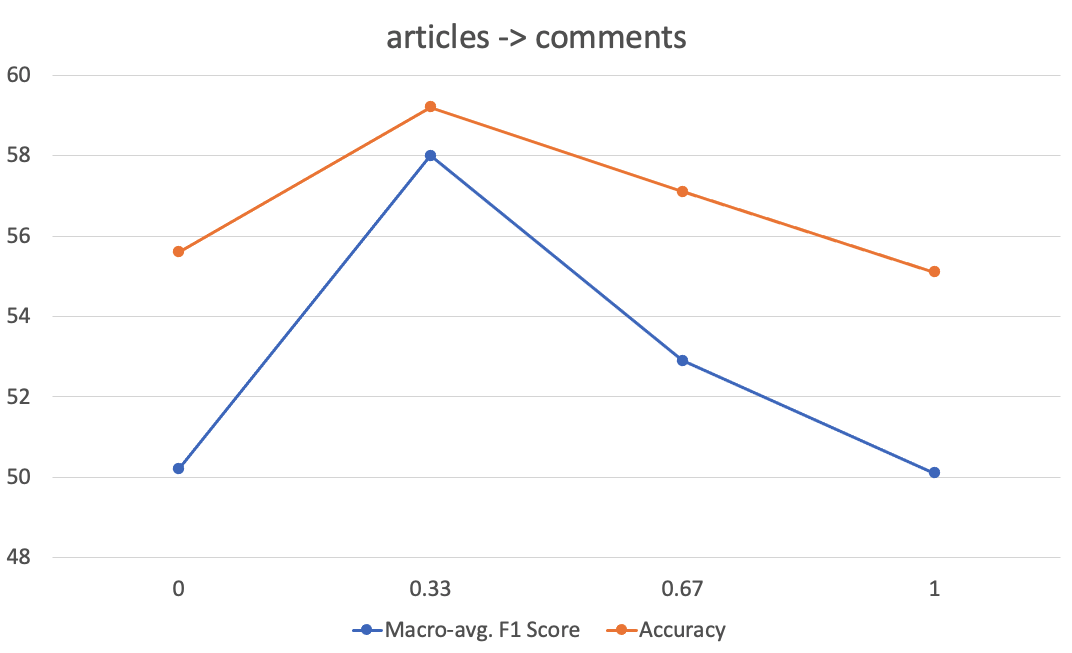
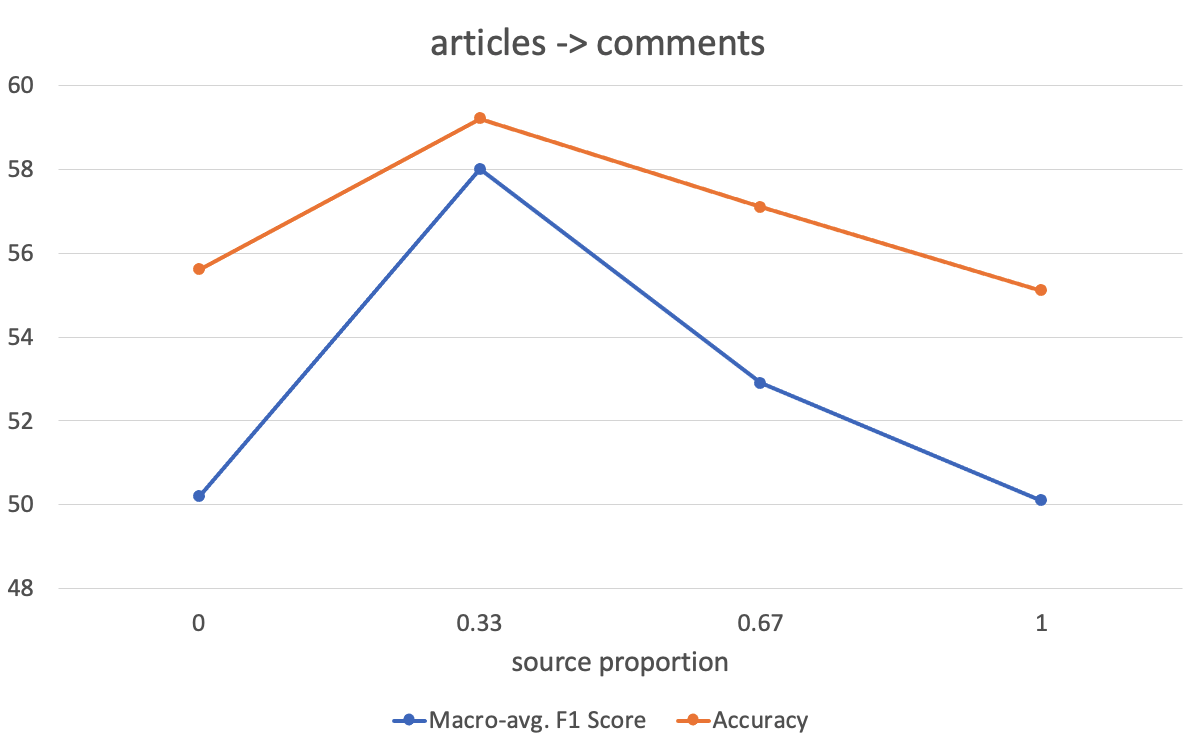
Updates from Overleaf

diff --git a/7-conclusion.tex b/7-conclusion.tex
@@ -12,45 +12,24 @@ Significant work still needs to be done in the field of unsupervised domain adap
 
 \section{Ethical Issues}
 
-The output of our models are not sensitive data. They only predict a political class (e.g. left, center or right) for particular news articles or comments. 
+With regards to data protection, our project does not involve collecting any personal data from Reddit users - all information is collected via the public Reddit API, and we immediately discard comment author information from our datasets before running our models, since we don't make use of this information in any way. An earlier project idea involved analysing the distribution of left-wing and right-wing users across various subreddits - this would involve inferring political affiliations on a per-user basis, which counts as processing `special-category' data under the UK Data Protection Act (DPA) 2018 \cite{dpa}. In this case we would need to take extra precautions when storing and processing this sensitive information.
 
-Our project doesn't involve collecting any personal data from Reddit users - all information is collected through the public Reddit API. We don't make use of author information from comments in any way. The API doesn't expose any sensitive data anyway, only username and account age are exposed.
+One issue is that a third party could take our bias detectors and apply them on comments all from one social media user to determine that user's political leaning, which would of course be inferring sensitive data. This kind of privacy attack could be performed with any bias-detection machine learning model. If our model were deployed in a production environment, we could limit this kind of attack by placing our model behind a query-based interface and limiting the number of queries that can be placed.
 
+In using Reddit comments as a predictor for political bias in the wider news context, our model may unknowingly be biased towards writing styles used by the demographics in our dataset. Reddit is known to have a mainly young, American, white and male userbase \cite{pew-reddit-demographics}, and so a bias detection classifier trained on Reddit text such as ours may start to mispredict if it comes across news or comments with writing styles different to those used by this demographic online. 
 
-
-There are a number of ethical issues involved in our research.
-
-Someone could take our bias detectors and use them on comments all from one person to determine that person's political leaning.
-
-In using Reddit comments as a predictor for political bias in the wider news context, our model may unknowingly be biased towards writing styles used by the demographics in our dataset. Reddit is known to have a mainly young, American, white and male userbase, and so a bias detection classifier trained on Reddit text such as ours may start to mispredict if it comes across news or comments with writing styles different to those used by this demographic online. 
-
-This risk increases with large language models such as BERT, which are pre-trained on huge amounts of data. 
-
-Reddit demographics
-
-
-https://www.journalism.org/2016/02/25/reddit-news-users-more-likely-to-be-male-young-and-digital-in-their-news-preferences/
-
-work has focused on examining data that feeds into large language models such as BERT
-
-
-wanted to find bias per user, but data protection stuff
-
-taking biases learnt from comments and transferring them to news source detection - unneeded influence
-
-
-For all information we collect we must abide by the Data Protection Act (DPA) 2018 \cite{dpa}, which sets out UK GDPR rules. In this project we do not manually collect any private data relating to Reddit users - all data we use is exposed publicly by the Reddit API. However for all comments we collect, the author's Reddit username is also collected as part of the API response. This legally counts as storing sensitive personal information under the DPA, however we mitigate this issue by discarding Reddit usernames from our dataset as soon as possible, since it is not relevant to our research. We don't infer any political bias on a per-user basis, however if we did we would have to be careful not to publish this association anywhere (for obvious reasons).
-
-For others to use our model in production systems we would need to verify our models are unbiased. Machine learning models are often black-box models - verifying what behaviour occurs inside ML models is an open research topic, and so we can never say for sure that our models are completely unbiased. We could however compare against manually-annotated data to see where bias in our models might lie.
-
-
-biased data -> biased model
-
-gebru, reddit
-https://dl.acm.org/doi/abs/10.1145/3351095.3372829
-
+This risk is increased when using large language models such as BERT, which are pre-trained on huge amounts of data - very little is understood about the exact mechanisms BERT uses during training to ensure classification success \cite{bert-dark-secrets}. Jo \& Gebru \cite{gebru} carried out a case study on GPT-2, a large language model similar to BERT, and its pre-training corpus of Reddit data. They noted Reddit's demographics are not representative of demographics in the wider world, and due consideration of this had not been taken by the GPT-2 creators before publishing their model. We have attempted to publish significant information about our Reddit dataset in Chapter \ref{chap:reddit-data}, including which subreddits we sourced information from and how much data from each subreddit, to make our training data collection methodology more transparent.
 
 \section{Future Work}
+
+In this section we propose several ideas for future work that could take this research further.
+
+\begin{itemize}
+    \item \textbf{Collecting more training data} - Our cross-domain Reddit dataset is fairly small, with 806 news articles and 11,954 Reddit comments. Our research would be made much more reliable with a larger collection of news articles in our dataset, plus a wider range of politically-themed subreddits to source comments from. Many of the posts we scraped from Reddit were actually links to screenshots of news articles and tweets rather than actual articles, which we discarded - keeping these screenshots and extracting text from them would also give us access to much more Reddit training data.
+    \item \textbf{Testing more modern classifiers} - We chose BERT models for our experiments in Chapters \ref{chap:domain-adaptation} and \ref{chap:extending-adaptabert} since BERT performs feature extraction automatically, and still provides good classification performance for detecting political bias as seen in Chapter \ref{chap:ensemble-bert}. Further language models, such as XLNet \cite{xlnet}, claim to improve upon BERT's performance significantly, and so assessing their performance on this political bias detection task may yield superior results.
+    \item \textbf{Assessing non-political subreddits} - In this project we only considered politically-themed subreddits to train our classifier. Kane \& Luo \cite{kane} explored whether non-political subreddits still exhibit some unconscious political leaning, using topic modelling with Latent Dirichlet Allocation. Using our classifiers trained on political subreddit data, we could examine the same task but with a transfer learning approach, to see if our results differ from Kane \& Luo's.
+    \item \textbf{Browser extension for assessing echo chambers} - An online echo chamber is an environment where a person only encounters information that reflects and reinforces their own opinions \cite{echo-chambers}. Social media users nowadays are more aware of how echo chambers can affect their point of view. By developing a browser extension that can analyse the text on screen for political bias, social media users can examine how the content they see on social media is politically oriented, to see if they are victim to an echo chamber.
+\end{itemize}
 
 Exploring bias in tabloids vs broadsheets
 
@@ -59,6 +38,12 @@ Further work on Reddit:
     \item Compare Reddit political scale to various countries' political scales (e.g. does it most align with the US scale?)
     \item Look at bias across time
 \end{itemize}
+
+Extract word embeddings from BERT and use in SVM or other classifier, we just use BERTForSequenceClassification
+
+Try other classifiers that aren't BERT (Dark Secrets of BERT) - maybe XLNet?
+
+Multi-modal approach taking images from Reddit or Twitter - lots (how many?) of scraped links were actually to photos
 
 Explore effect of NSP addition to AdaptaBERT for other problems (question answering, natural language inference)
 

diff --git a/8-bibliography.tex b/8-bibliography.tex
@@ -23,7 +23,7 @@ Ad Fontes Media. \textit{Methodology Overview}. Available from: \url{https://www
 W. Wang. \textit{Calculating Political Bias and Fighting Partisanship with AI}. Available from: \url{https://www.thebipartisanpress.com/politics/calculating-political-bias-and-fighting-partisanship-with-ai/} [Accessed 17/02/2021]
 
 \bibitem{baly-emnlp18}
-R. Baly, G. Karadzhov, D. Alexandrov, J. Glass, P. Nakov. Predicting Factuality of Reporting and Bias of News Media Sources. \textit{Proceedings of the Conference on Empirical Methods in Natural Language Processing}, 2018. Available from: \url{https://arxiv.org/pdf/1810.01765v1.pdf} [Accessed 14/01/2021]
+R. Baly, G. Karadzhov, D. Alexandrov, J. Glass, P. Nakov. Predicting Factuality of Reporting and Bias of News Media Sources. \textit{Proceedings of the Conference on Empirical Methods in Natural Language Processing}, 2018. Available from: \url{https://www.aclweb.org/anthology/D18-1389/} [Accessed 14/01/2021]
 
 \bibitem{yougov}
 M. Smith. \textit{Left-wing vs right-wing: it’s complicated}. Available from: 
@@ -74,7 +74,7 @@ Y. Liu, M. Ott, N. Goyal, J. Du, M. Joshi, D. Chen, O. Levy, M. Lewis, L. Zettle
 
 \bibitem{baly-acl2020}
 R. Baly, G. Karadzhov, J. An, H. Kwak, Y. Dinkov, A. Ali, J. Glass, P. Nakov. What Was Written vs. Who Read It:
-News Media Profiling Using Text Analysis and Social Media Context. \textit{Association for Computational Linguistics}, 2020. Available from: \url{https://arxiv.org/pdf/2005.04518v1.pdf} [Accessed 19/01/2021]
+News Media Profiling Using Text Analysis and Social Media Context. \textit{Association for Computational Linguistics}, 2020. Available from: \url{https://www.aclweb.org/anthology/2020.acl-main.308/} [Accessed 19/01/2021]
 
 \bibitem{sattelberg}
 W. Sattelberg. \textit{The Demographics Of Reddit: Who Uses The Site?}. Available from: \url{https://social.techjunkie.com/demographics-reddit/} [Accessed 21/01/2021]
@@ -202,10 +202,22 @@ D. D. Lewis, Y. Yang, T. Rose, F. Li. \textit{RCV1: A New Benchmark Collection f
 \bibitem{wnut}
 B. Strauss, B. Toma, A. Ritter, M.C. De Marneffe, W. Xu. Results of the WNUT16 Named Entity Recognition Shared Task. \textit{Proceedings of the 2nd Workshop on Noisy User-generated Text (WNUT)}, December 2016. pp. 138-144. Available from: \url{https://www.aclweb.org/anthology/W16-3919.pdf} [Accessed 04/06/2021]
 
+\bibitem{dpa}
+Data Protection Act 2018 (UK). Available from: \url{https://www.legislation.gov.uk/ukpga/2018/12/contents/enacted} [Accessed 21/01/2021]
+
 \bibitem{pew-reddit-demographics}
 Pew Research Center. \textit{Reddit news users more likely to be male, young and digital in their news preferences}. Available from: \url{https://www.journalism.org/2016/02/25/reddit-news-users-more-likely-to-be-male-young-and-digital-in-their-news-preferences/} [Accessed 10/06/2021]
 
-\bibitem{dpa}
-Data Protection Act 2018 (UK). Available from: \url{https://www.legislation.gov.uk/ukpga/2018/12/contents/enacted} [Accessed 21/01/2021]
+\bibitem{bert-dark-secrets}
+O. Kovaleva, A. Romanov, A. Rogers, A. Rumshisky. Revealing the Dark Secrets of BERT. \textit{Proceedings of the 2019 Conference on Empirical Methods in Natural Language Processing and the 9th International Joint Conference on Natural Language Processing (EMNLP-IJCNLP)}, November 2019. pp. 4365-4374. Available from: \url{https://www.aclweb.org/anthology/D19-1445} [Accessed 14/06/2021]
+
+\bibitem{gebru}
+E.S. Jo, T. Gebru. Lessons from Archives: Strategies for Collecting Sociocultural Data in Machine Learning. \textit{Proceedings of the 2020 Conference on Fairness, Accountability, and Transparency}, 27th January 2020. pp. 306-316. Available from: \url{https://dl.acm.org/doi/abs/10.1145/3351095.3372829} [Accessed 14/06/2021]
+
+\bibitem{xlnet}
+Z. Yang, Z. Dai, Y. Yang, J. Carbonell, R. Salakhutdinov, Q.V. Le. XLNET: Generalized Autoregressive Pretraining for Language Understanding. \textit{Advances in Neural Information Processing Systems}, 2019. Vol. 32. Available from: \url{https://papers.nips.cc/paper/2019/file/dc6a7e655d7e5840e66733e9ee67cc69-Paper.pdf} [Accessed 14/06/2021]
+
+\bibitem{echo-chambers}
+Goodwill Community Foundation, Inc. \textit{What is an echo chamber?} Available from: \url{https://edu.gcfglobal.org/en/digital-media-literacy/what-is-an-echo-chamber/1/} [Accessed 14/06/2021]
 
 \end{thebibliography}

diff --git a/1-introduction.tex b/1-introduction.tex
@@ -21,5 +21,5 @@ The main contributions of this dissertation are as follows:
     \item \textbf{Detecting political bias in news content} - We survey existing machine learning models for detecting political bias within news content, including ensemble classifiers that have not been explored in prior literature. We assess performance using pre-computed features from previous research, as well as using models such as BERT that perform textual feature extraction themselves (Chapter \ref{chap:ensemble-bert}).
     \item \textbf{Developing a cross-domain Reddit dataset} - We create a novel dataset consisting of both news articles and Reddit comments reacting to those articles, aimed at domain adaptation tasks. We discuss the design decisions and trade-offs involved in creating a high-quality dataset, and assess similarity between the domains in our dataset (Chapter \ref{chap:reddit-data}).
     \item \textbf{Exploring unsupervised domain adaptation techniques} - We investigate unsupervised domain adaptation methods to detect political bias on Reddit, using knowledge learnt from detecting bias in news content. We explore a direct transfer approach, and a state-of-the-art domain-adaptive BERT model called AdaptaBERT (Chapter \ref{chap:domain-adaptation}).
-    \item \textbf{Extending AdaptaBERT with Next Sentence Prediction} - We extend AdaptaBERT by adding Next Sentence Prediction to its fine-tuning stages, and evaluate its performance on a political bias detection task as well as a named entity recognition task. We see a 2.5\% improvement in F1 score over standard AdaptaBERT for the NER task (Chapter \ref{chap:extending-adaptabert}).
+    \item \textbf{Extending AdaptaBERT with Next Sentence Prediction} - We extend AdaptaBERT by adding Next Sentence Prediction to its fine-tuning stages, and evaluate its performance on a political bias detection task as well as a named entity recognition (NER) task. We see a 2.5\% improvement in F1 score over standard AdaptaBERT for the NER task (Chapter \ref{chap:extending-adaptabert}).
 \end{itemize}

diff --git a/main.tex b/main.tex
@@ -40,7 +40,7 @@
 % checks for unused references
 %\usepackage{refcheck}
 
-\title{Detecting Political Bias On Social Media With Domain Adaptation Techniques}
+\title{Detecting Political Bias On Reddit With Transfer Learning}
 \author{Fawaz Shah}
 % Update supervisor and other title stuff in title/title.tex
 
@@ -49,15 +49,23 @@
 
 \begin{abstract}
 
+Identifying political bias on social media provides incredibly useful insights for analysts who wish to quantify political sentiment online, and tackle problems with social media such as filter bubbles and echo chambers. However, identifying political bias on social media with traditional supervised machine learning is incredibly difficult due to the lack of annotated data available.
+
+In this project we explore whether transfer learning from 
+
 \end{abstract}
 
 \renewcommand{\abstractname}{Acknowledgements}
 \begin{abstract}
-anandha
 
-everyone at imperial (andy, subhash, arjun)
+Firstly, I would like to thank \texttt{lofi hip hop radio - beats to relax/study to} for giving me the motivation to continue
 
-mum, dad, dadi, dada
+Firstly I would like to thank my supervisor Dr Anandha Gopalan for his continuous guidance, enthusiasm and support throughout the project, during what has been a  year.
+
+Further, I want to thank everyone who I've had the pleasure of being friends with in the last 4 years. I especially owe a great deal to Andy, Subhash, and Inara for proof-reading my report, as well as Arjun, Zélie and the \textit{Lit Times} squad for keeping me motivated through this pandemic.
+
+Finally I want to thank my amazing family for their endless love and encouragement through my entire degree. I wouldn't be where I am today without them.
+
 \end{abstract}
 
 \tableofcontents

diff --git a/6-extending-adaptabert.tex b/6-extending-adaptabert.tex
@@ -147,11 +147,11 @@ We will perform our experiments using the political bias detection task. Again, 
     \centering
     \begin{subfigure}{\textwidth}
         \centering
-        \includegraphics[scale=0.24]{0-img/ner-src-proportion-articles-comments.png}
+        \includegraphics[scale=0.24]{0-img/nsp-src-proportion-articles-comments.png}
     \end{subfigure}
     \begin{subfigure}{\textwidth}
         \centering
-        \includegraphics[scale=0.24]{0-img/ner-src-proportion-comments-articles.png}
+        \includegraphics[scale=0.24]{0-img/nsp-src-proportion-comments-articles.png}
     \end{subfigure}
     \caption{Performance of AdaptaBERT++ when varying proportion of source domain examples compared to target domain examples used in the NSP stage}
     \label{fig:ner-src-proportion}
